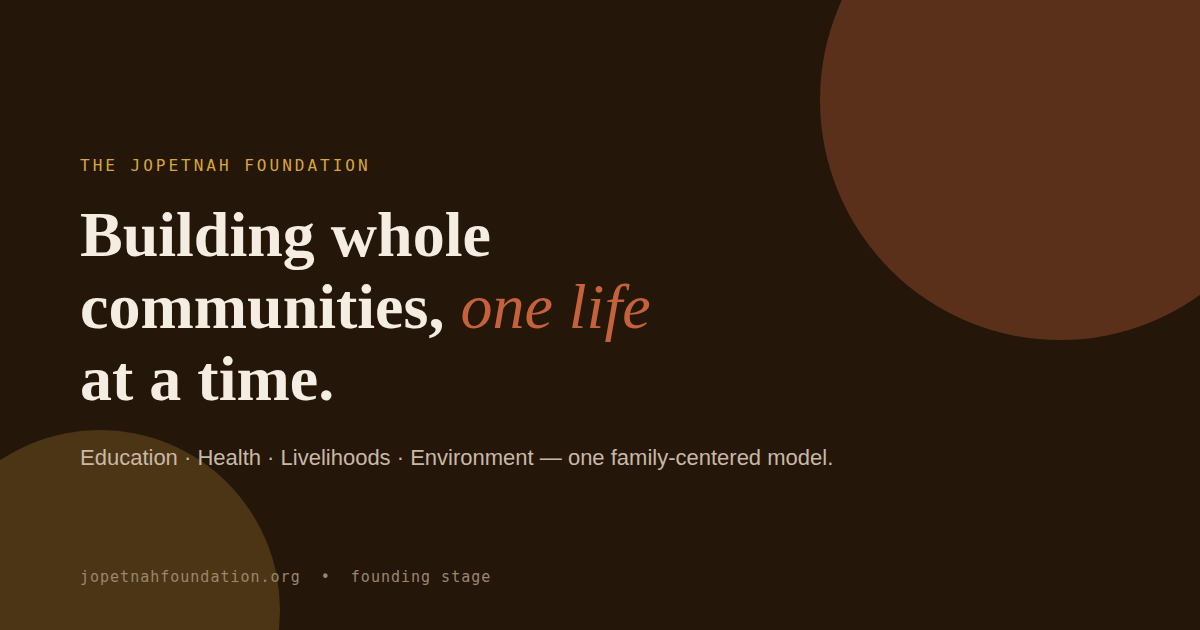
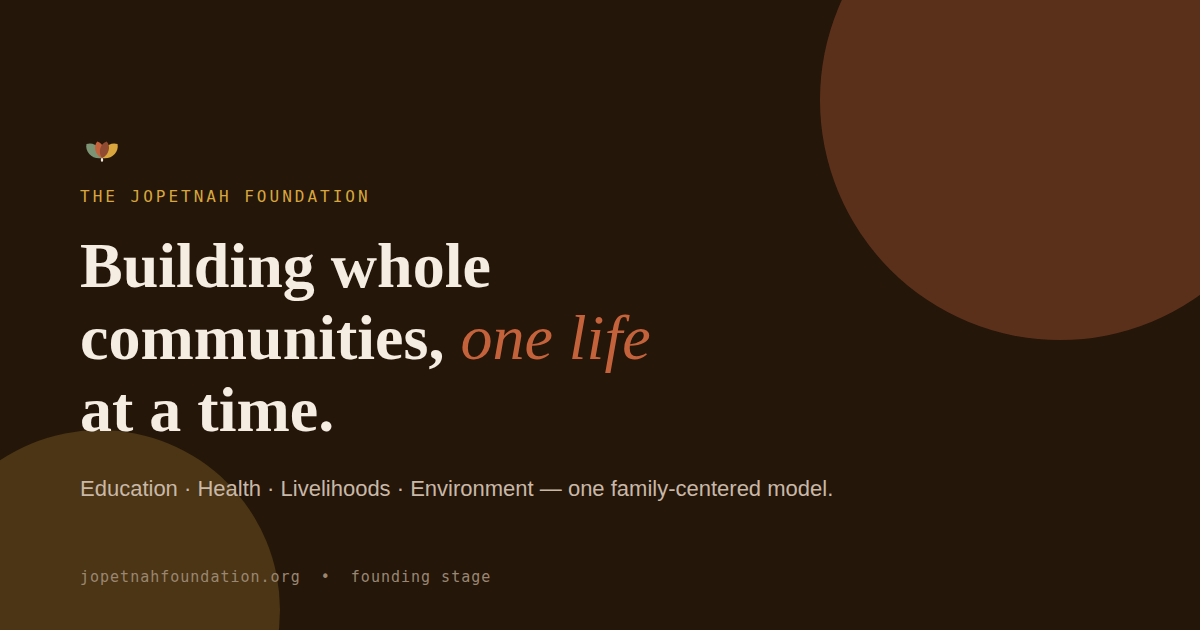
Add files via upload

Changed region(s): [[0.0617, 0.3016, 0.7092, 0.7841], [0.0617, 0.2111, 0.3083, 0.2714]]

diff --git a/README.md b/README.md
@@ -1,6 +1,8 @@
 <div align="center">
 
-# 🌱 The Jopetnah Foundation
+<img src="jopetnah-icon-512.png" width="90" alt="The Jopetnah Foundation logo">
+
+# The Jopetnah Foundation
 
 **Building whole communities, one life at a time.**
 
@@ -10,13 +12,13 @@
 [![Stage](https://img.shields.io/badge/stage-seeking%20founding%20partners-blueviolet)]()
 [![License](https://img.shields.io/badge/license-CC%20BY--NC%204.0-lightgrey)]()
 
-[Mission](#-mission) · [Programs](#-programs) · [Funding Strategy](#-funding-strategy) · [Grants Calendar](#-grants-calendar) · [Flagship Events](#-flagship-fundraising-events) · [Website Copy](#-website-copy--diaspora-giving-circle) · [Governance](#-governance--accountability) · [Roadmap](#-launch-roadmap) · [Get Involved](#-get-involved)
+[Mission](#-mission) · [The Problem](#-the-problem) · [Our Model](#-our-model) · [Programs](#-programs) · [How to Support](#-how-to-support) · [Funding Roadmap](#-funding--partnership-roadmap) · [Governance](#-governance--accountability) · [Roadmap](#-launch-roadmap) · [Get Involved](#-get-involved)
 
 </div>
 
 ---
 
-> This repository is the working home for The Jopetnah Foundation's mission, programs, and fundraising plans as we finalize registration with legal counsel. Details will be updated as that process completes.
+> This repository is the working home for The Jopetnah Foundation's mission, programs, and fundraising plans as we finalize registration with legal counsel. Details will be updated as that process completes — see the [note](#-note) at the bottom.
 
 ## 🎯 Mission
 
@@ -26,11 +28,13 @@ To advance **education, health, economic opportunity, and environmental resilien
 
 **Values:** Integrity · Community ownership · Transparency · Sustainability · Inclusion
 
-**Why one foundation, four pillars?** Funders increasingly favor organizations that show how issues interconnect — a sick child can't stay in school; a family without income can't afford healthcare. Jopetnah's positioning as an *integrated development* foundation, rather than four disconnected charities, is itself a fundraising advantage: it lets us pitch a whole-family, whole-community model to donors who want higher-impact-per-dollar stories.
-
 ## 💡 The Problem
 
 In the communities Jopetnah serves, a child out of school, a family without healthcare, and a household without income are rarely separate problems — they're the same problem, seen from different angles. Most charities specialize in one slice of it. **Jopetnah is built to address the whole picture, for the whole family.**
+
+## 🧩 Our Model
+
+Jopetnah runs four integrated program pillars rather than four disconnected charities. This isn't just a delivery choice — it's a funding advantage: a single gift can be shown to cover a child's school fees, a parent's health check-up, **and** seed capital for a small business, all in one family.
 
 ```
             ┌───────────────────────────┐
@@ -41,65 +45,55 @@ In the communities Jopetnah serves, a child out of school, a family without heal
  Education     Health           Livelihoods   Environment
 ```
 
-## 🏛 Organizational Structure
-
-| Layer | Role |
-|---|---|
-| **Board of Trustees** | 7–9 members: governance, fiduciary oversight, high-level fundraising relationships |
-| **Executive Director** | Day-to-day leadership, funder relationships, strategy |
-| **Program Directors (x4)** | One per pillar: Education, Health, Livelihoods, Environment |
-| **Fundraising & Partnerships Lead** | Owns donor pipeline, grants, corporate CSR deals |
-| **Communications/Marketing Lead** | Storytelling, digital presence, campaign execution |
-| **Advisory Council** | Respected community, diaspora, and sector figures |
-| **M&E Officer** | Tracks and reports impact data for grant renewals and donor retention |
-
-**Legal recommendation:** Register as a nonprofit/NGO with tax-exempt status where available — often a prerequisite for both corporate CSR partnerships and institutional grants.
-
 ## 🏗 Programs
 
-### 🎓 Education & Youth Development
-- **Jopetnah Scholars** — need-based scholarships + mentorship for secondary/tertiary students
-- **Future-Ready Labs** — digital literacy and vocational skills hubs in underserved schools
-- **Read to Lead** — community libraries and literacy campaigns for early learners
+| Pillar | Flagship Programs |
+|---|---|
+| 🎓 **Education & Youth Development** | Jopetnah Scholars (scholarships + mentorship) · Future-Ready Labs (digital/vocational skills) · Read to Lead (community libraries) |
+| 🩺 **Health & Wellbeing** | Community Health Champions · Mobile Wellness Clinics · Mind & Body Program |
+| 💰 **Poverty Alleviation & Livelihoods** | Jopetnah Micro-Grants · Skills-to-Income Pipeline · Cooperative Savings Circles |
+| 🌱 **Environment & Community Development** | Green Neighborhoods · Water & Sanitation Access · Climate-Smart Livelihoods |
 
-### 🩺 Health & Wellbeing
-- **Community Health Champions** — trains local volunteers as first-line health educators
-- **Mobile Wellness Clinics** — periodic outreach to remote areas (maternal health, screenings, vaccinations)
-- **Mind & Body Program** — mental health awareness, nutrition, and adolescent health education
+Full program detail: [`docs/BLUEPRINT.md`](docs/BLUEPRINT.md)
 
-### 💰 Poverty Alleviation & Livelihoods
-- **Jopetnah Micro-Grants** — seed capital + training for small entrepreneurs (esp. women, youth)
-- **Skills-to-Income Pipeline** — vocational training tied directly to job placement or self-employment
-- **Cooperative Savings Circles** — savings groups paired with financial literacy training
+## 🤝 How to Support
 
-### 🌱 Environment & Community Development
-- **Green Neighborhoods** — tree planting, clean-up drives, community gardens
-- **Water & Sanitation Access** — boreholes, filtration units, hygiene education
-- **Climate-Smart Livelihoods** — links environment back to livelihoods (e.g., eco-friendly agribusiness)
+Jopetnah is built for three kinds of partners:
 
-*Cross-pillar design lets us package "bundled" giving — e.g., a $500 gift funds one family's full-circle support: a child's school fees, a health check-up, and a livelihood grant for a parent.*
+<table>
+<tr>
+<td valign="top" width="33%">
 
-## 💰 Funding Strategy
+**🧑🤝🧑 Individuals & Diaspora**
+- Recurring monthly giving via the **Send Home Hope** giving circle
+- Sponsor-a-Student / Sponsor-a-Family
+- Founder's Circle for major individual donors
 
-Three tracks running in parallel:
+📄 [`docs/WEBSITE_COPY.md`](docs/WEBSITE_COPY.md)
 
-### Track A: Individual Donors & Diaspora
-1. **"Send Home Hope" Diaspora Giving Circle** — monthly recurring giving targeted at diaspora communities abroad
-2. **Founder's Circle** — recognition tier for donors giving above a threshold annually
-3. **Birthday/Holiday Fundraisers** — peer-to-peer fundraising via social platforms around "Jopetnah Day"
-4. **Sponsor-a-Student / Sponsor-a-Family** — recurring micro-donations tied to a specific beneficiary story
+</td>
+<td valign="top" width="33%">
 
-### Track B: Corporate Sponsors / CSR
-1. **Tiered Corporate Partnership Program** (Bronze/Silver/Gold/Platinum)
-2. **"Adopt-a-Program" Sponsorships** — a company sponsors one flagship program
-3. **Employee Giving & Matching Campaigns**
-4. **Cause-Marketing Product Tie-ins**
+**🏢 Corporate Sponsors**
+- Tiered partnership program (Bronze → Platinum)
+- Adopt-a-Program sponsorship
+- Employee giving & matching campaigns
 
-### Track C: Institutional Grants
-1. Maintain a **grants calendar** (see below) tracking bilateral, multilateral, and private foundation calls
-2. Develop **modular concept notes** per pillar for fast response to open calls
-3. Pursue **government/consortium partnerships** as the fastest entry point to first awards
-4. Invest early in **M&E systems** — grantmakers require rigorous impact data
+📄 [`docs/BLUEPRINT.md#4-funding-strategy--three-tracks-running-in-parallel`](docs/BLUEPRINT.md)
+
+</td>
+<td valign="top" width="33%">
+
+**🏛 Institutional Grants**
+- Active, trackable grants calendar
+- Modular concept notes per pillar
+- Consortium partnerships for scale
+
+📄 [`docs/GRANTS_CALENDAR.md`](docs/GRANTS_CALENDAR.md)
+
+</td>
+</tr>
+</table>
 
 **Giving tiers (draft, pending final currency/amounts with legal & finance):**
 
@@ -110,70 +104,20 @@ Three tracks running in parallel:
 | Guardian | $500 (one-time or /mo) | A full "whole-family" bundled gift |
 | Founder's Circle | $5,000+/yr | Named recognition, gala invite, quarterly briefings |
 
-## 📅 Grants Calendar
+## 📅 Funding & Partnership Roadmap
 
-Real, current funding opportunities relevant to our pillars in Uganda/East Africa. *(Also maintained as an interactive spreadsheet with status-tracking dropdowns, shared alongside this repo.)*
-
-| Funder / Program | Pillar(s) | Grant Type | Typical Range (USD) | Deadline / Cycle | Notes |
-|---|---|---|---|---|---|
-| Mastercard Foundation EdTech Fellowship (via Hive Colab) | Education | Catalytic / equity-free funding | Up to $70,000 | Annual — 2026 cycle closed 5-Feb-2026; watch for 2027 call | Best fit if Jopetnah spins up a dedicated EdTech/digital-learning venture arm |
-| Mastercard Foundation Scholars Program – Makerere University | Education | Scholarship placement | Full tuition + stipend | Annual — 2026/27 deadline 5-Jun-2026 | Route candidates from Jopetnah Scholars here |
-| Segal Family Foundation | Education / Health / Livelihoods / Environment | Unrestricted, multi-year grant | $5,000–$250,000 | Rolling, referral-based | Apply directly + seek a warm referral through an existing partner |
-| GEF Small Grants Programme (UNDP Uganda) | Environment / Livelihoods | Project grant | Up to $40,000–$50,000 | Rolling calls (recent call closed 2-Jul-2026) | Strong fit for Green Neighborhoods / Water & Sanitation |
-| MTN Uganda Foundation — Changemakers Initiative | Education / Health / Environment / Livelihoods | Community grant | Share of ~$130,000 pool / ~25 projects | Phased calls; Phase 3 launched Oct 2025 | Requires co-branding with MTN |
-| MTN Uganda Foundation — General Partnership Proposals | Education / Health / ICT / Youth | Sponsorship / CSI grant | Varies | Rolling, reviewed quarterly | Separate from Changemakers |
-| USAID Uganda Mission — open solicitations | All pillars | Institutional grant / cooperative agreement | Often $100,000+ | Continuous — check grants.gov / SAM.gov | Best pursued via consortium with an established NGO first |
-| Comic Relief — International Grants | Health / Education / Gender | Project grant | £30,000–£500,000+ | Check comicrelief.com | Usually needs a UK fiscal partner |
-| Stanbic Bank Uganda CSR | Education / Livelihoods | Sponsorship / CSR partnership | Varies | Check annually, typically Q1 | Aligns with Skills-to-Income Pipeline |
-| Airtel Uganda / Airtel Foundation CSR | Health / Education / ICT | Sponsorship / in-kind + cash | Varies | Rolling | Consider pitching Digital Literacy Labs |
-| *Add your own opportunity* | | | | | |
-
-**How to use this calendar:** update status (Not started → Researching → In progress → Submitted → Awarded/Declined) as you progress, assign an owner per opportunity, and re-verify deadlines quarterly — this list reflects information available as of **July 2026**. Treat rolling/no-deadline funders as always-open.
+A living, trackable list of real funding opportunities relevant to our program pillars and region — see [`docs/GRANTS_CALENDAR.md`](docs/GRANTS_CALENDAR.md) for the current shortlist (Mastercard Foundation, Segal Family Foundation, GEF Small Grants Programme, MTN Uganda Foundation, USAID, and others), and the companion spreadsheet for status tracking.
 
 ## 🎉 Flagship Fundraising Events
 
-### Jopetnah Day (Annual 48-Hour Digital Giving Blitz)
-Built for reach, not venue cost — ideal for diaspora and individual donors.
-- **Goal:** 200+ new monthly recurring donors in Year 1
-- **8-week runway:** confirm a matching-gift sponsor → recruit 15–20 Ambassadors → produce a #OneJopetnah story series → build a landing page with a live counter → tease, launch, and push for 48 hours → thank every donor within 48 hours
+- **Jopetnah Day** — an annual 48-hour digital giving blitz for individual and diaspora donors
+- **The Jopetnah Gala** — an annual flagship dinner for major donors and corporate sponsors
 
-### The Jopetnah Gala (Annual Flagship Dinner)
-The primary vehicle for major-donor cultivation and corporate sponsorship renewal.
-- **Goal:** secure/renew 3–5 anchor corporate sponsors, convert mid-level donors into Founder's Circle members
-- **16-week runway:** set date/venue → finalize sponsorship tiers → invite honorees → open ticket sales → send formal invitations → rehearse → hold the event → send personalized thank-yous within 5 business days
-- **Typical run of show:** reception → welcome remarks → mission moment (beneficiary story) → dinner → honoree recognition → **the ask** (fund-a-need pledge moment) → live auction → closing remarks
-
-**Sponsorship tiers:** Presenting Sponsor · Gold · Silver · Community Table (discounted, for grassroots partners/beneficiary families)
-
-## 🌐 Website Copy & Diaspora Giving Circle
-
-### Homepage Hero
-**Headline:** Building whole communities, one life at a time.
-**Subhead:** The Jopetnah Foundation brings education, health, economic opportunity, and environmental care together — because families don't face one problem at a time, and neither should we.
-
-### Trust Strip *(place near the donate button)*
-- ✅ Governed by an independent Board of Trustees
-- ✅ Annual audited financials published in full
-- ✅ Locally-led programs, decisions made by the communities we serve
-- ✅ [X]% of every dollar goes directly to programs *(insert real figure once available)*
-
-### "Send Home Hope" Diaspora Giving Circle
-**Send Home Hope.** *A giving circle for the Jopetnah diaspora community — because home is never as far as it feels.*
-
-You left, but your community didn't leave your heart. Send Home Hope turns that pull into something concrete: a child staying in school, a mother getting a check-up, a neighbor starting a small business.
-
-| Tier | Monthly Gift | What it funds |
-|---|---|---|
-| Seedling | $15 | One month of school supplies for one child |
-| Rooted | $40 | One month of a Community Health Champion's outreach |
-| Grove | $100 | One family's monthly "whole-family" bundled support |
-| Elder | $250+ | Recognition in our diaspora newsletter + invite to virtual town halls |
-
-**Why recurring, not one-time?** A single $500 gift helps one family for one moment. A $40/month gift helps one family for a whole year — and lets Jopetnah plan programs with confidence instead of guessing what next quarter's funding will look like.
+Full run-of-show, timelines, and sponsorship tiers: [`docs/EVENT_PLAN.md`](docs/EVENT_PLAN.md)
 
 ## 🏛 Governance & Accountability
 
-*(Reflects current planning intent — final legal form to be confirmed with counsel.)*
+*(Structure below reflects current planning intent — final legal form to be confirmed with counsel.)*
 
 - Independent **Board of Trustees** (7–9 members) for fiduciary oversight
 - **Executive Director** + Program Directors for each of the four pillars
@@ -190,14 +134,18 @@ You left, but your community didn't leave your heart. Send Home Hope turns that 
 
 ```
 .
-├── README.md          ← you are here (all program, funding, and event detail lives here)
-├── index.html         ← public landing page (GitHub Pages)
-├── LICENSE            ← CC BY-NC 4.0
-└── CONTRIBUTING.md    ← how to get involved
+├── README.md                          ← you are here
+├── index.html                         ← public landing page (GitHub Pages)
+├── LICENSE                             ← CC BY-NC 4.0
+├── CONTRIBUTING.md                    ← how to get involved
+└── docs/
+    ├── BLUEPRINT.md                   ← full strategic design (mission, structure, all 4 pillars, funding tracks)
+    ├── GRANTS_CALENDAR.md             ← current funding opportunities (markdown view)
+    ├── EVENT_PLAN.md                  ← Jopetnah Day + Gala event plans
+    └── WEBSITE_COPY.md                ← website copy + diaspora giving-circle one-pager
 ```
 
 **To publish the landing page:** enable **GitHub Pages** in the repo settings (Settings → Pages → Deploy from branch → `main` → `/root`), and `index.html` will be live at `https://<your-username>.github.io/<repo-name>/`.
-
 *(A companion `Jopetnah_Grants_Calendar.xlsx` and `Jopetnah_Donor_Pitch_Deck.pptx` are maintained alongside this repo — not rendered in markdown, but referenced throughout.)*
 
 ## 🙋 Get Involved
@@ -208,6 +156,10 @@ We're currently formalizing Jopetnah's legal structure and looking for:
 - Early corporate and institutional co-founders
 
 **Interested?** Open an issue in this repo, or reach out at `partnerships@jopetnahfoundation.org` *(placeholder — update once the domain/email is live)*.
+
+## 📝 Note
+
+Figures, tiers, and program details in this repo are working estimates and will be refined as our registration and governance documents are finalized with legal counsel. Want to contribute or partner with us? See [`CONTRIBUTING.md`](CONTRIBUTING.md).
 
 ## License
 
